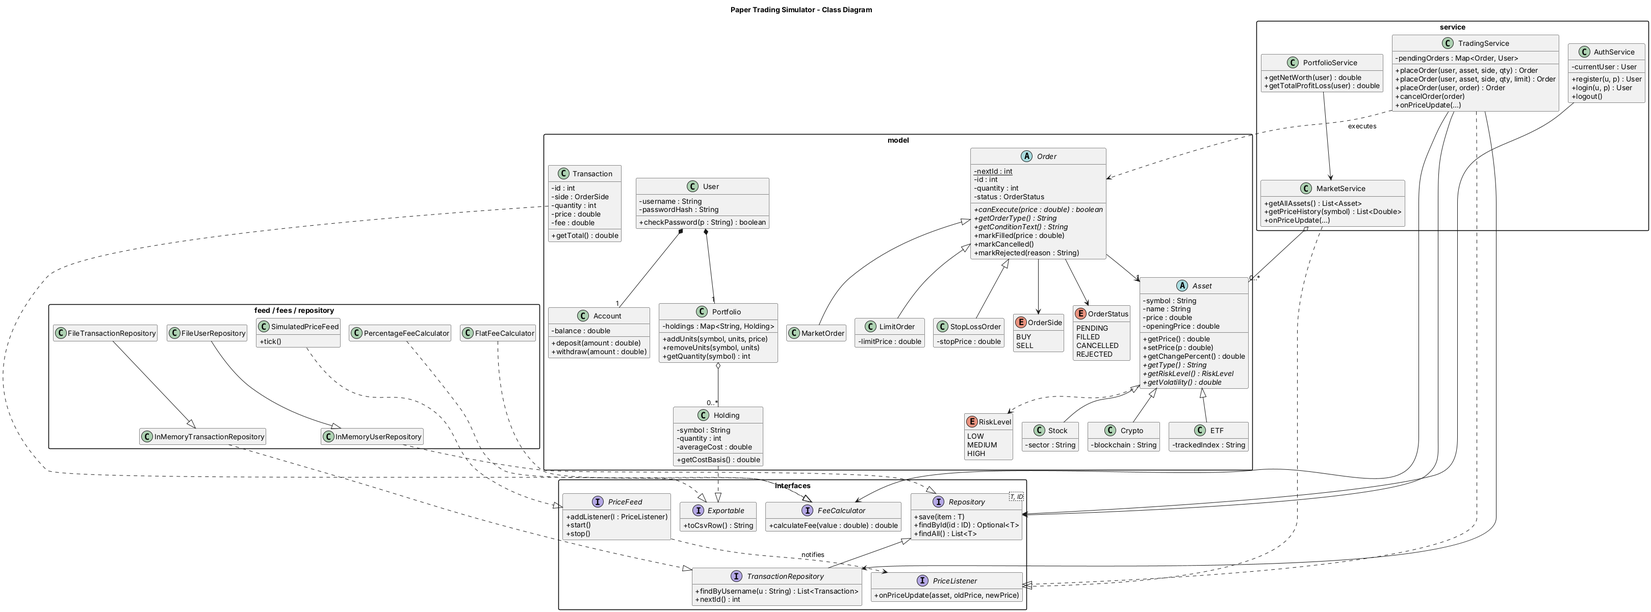
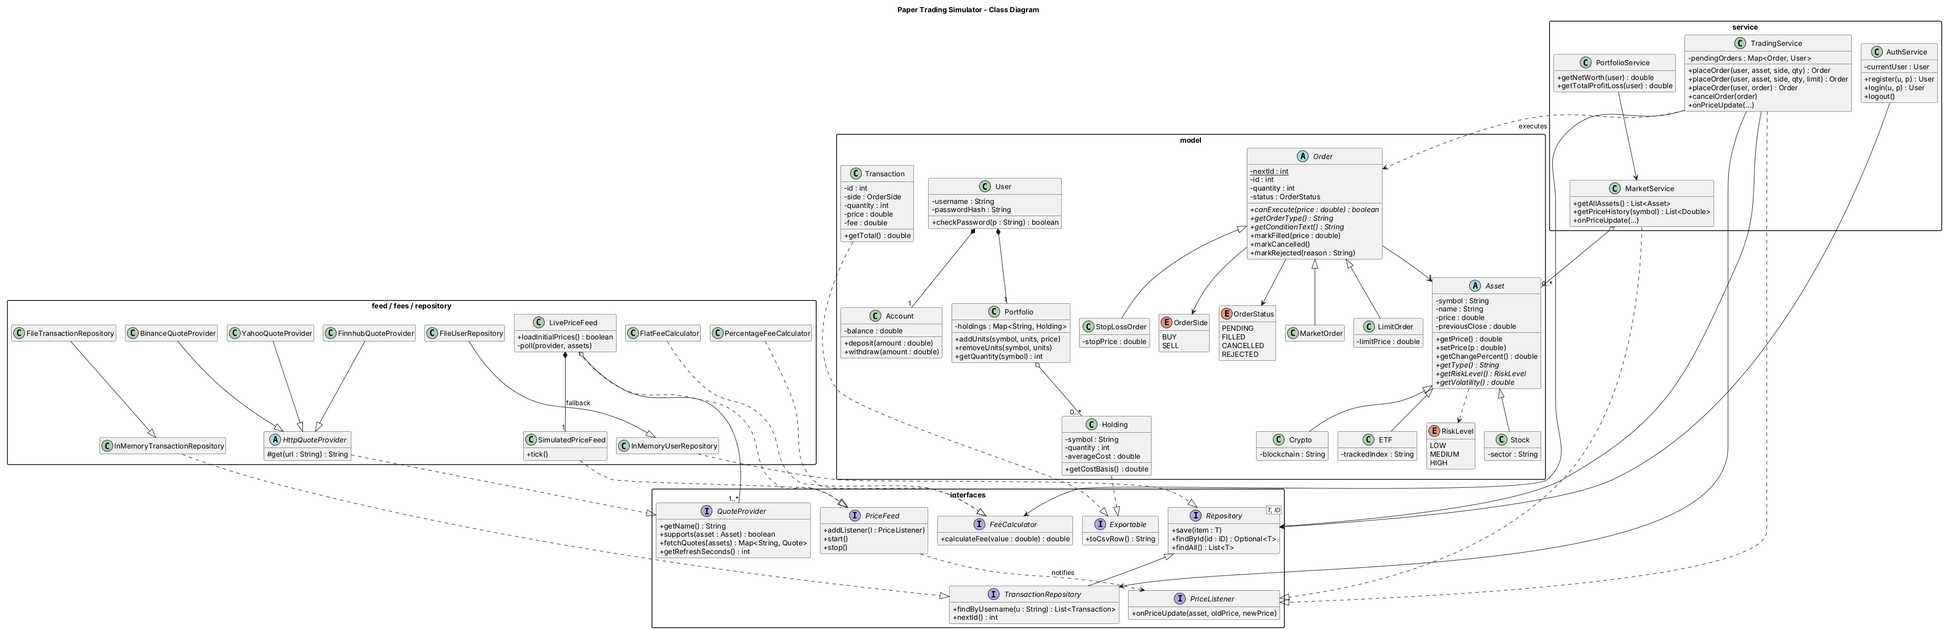
Spiral loop 5: update SRS, UML and docs for real market data
Claude-Session: https://claude.ai/code/session_0141eN5QTXP4mG7J4HCk5yAW

diff --git a/docs/SRS.md b/docs/SRS.md
@@ -18,9 +18,11 @@ project team, the evaluator and anyone who maintains the code later.
 
 ### 1.2 Scope
 PaperTrader 3D is a Java desktop application that lets a user practise buying and selling
-stocks, cryptocurrencies and ETFs with **virtual money**. Prices are simulated live. The user can
+stocks, cryptocurrencies and ETFs with **virtual money** at live market prices. The user can
 place Market, Limit and Stop-Loss orders, track profit and loss, and view their portfolio as a
-rotatable 3D bar chart. No real money and no real exchange are involved.
+rotatable 3D bar chart. Prices are **real market prices** (Binance for crypto, Finnhub or Yahoo
+Finance for stocks and ETFs), with a simulated mode for offline use. No real money and no real
+orders are involved.
 
 ### 1.3 Definitions
 | Term | Meaning |
@@ -50,12 +52,13 @@ the requirements to the UML diagrams.
 ## 2. Overall Description
 
 ### 2.1 Product perspective
-A stand-alone desktop application. It needs no internet or server. Data is stored in CSV files in
-a `data/` folder next to the app.
+A stand-alone desktop application. It reads live prices from public market data APIs over the
+internet; without internet it switches to simulated prices. Data is stored in CSV files in a
+`data/` folder next to the app.
 
 ### 2.2 Product functions (summary)
 1. Register, log in, log out
-2. View live simulated market prices and a price chart per asset
+2. View live real market prices (simulated when offline) and a price chart per asset
 3. Place Market, Limit and Stop-Loss orders (buy and sell)
 4. Preview the fee and total before trading
 5. Automatically execute waiting orders when their price condition is met
@@ -69,7 +72,7 @@ a `data/` folder next to the app.
 |---|---|
 | Guest | Not logged in. Can register or log in. |
 | Trader | Logged-in user. Can use every trading feature. |
-| Market Simulator (system actor) | The timer that updates prices every second. |
+| Market Data Feed (system actor) | The live APIs (or the offline simulator) that update prices. |
 
 ### 2.4 Operating environment
 - Java 17 or newer, Windows / macOS / Linux
@@ -81,7 +84,8 @@ a `data/` folder next to the app.
 - Code must be simple enough to explain in a viva.
 
 ### 2.6 Assumptions and dependencies
-- Prices are simulated with a random walk; they are not real market prices.
+- Live prices come from third-party APIs; their accuracy and availability are outside our control. US stocks only move during US market hours (about 8:00 PM to 2:30 AM IST); crypto moves 24/7.
+- Prices are shown in US dollars (crypto in USDT, a dollar-pegged coin).
 - Quantities are whole units.
 - Only one user is logged in at a time on one computer.
 
@@ -95,12 +99,13 @@ relationships, functional model) and **Architecture Modelling**.
 ### 3.1 Context analysis
 **Domain:** retail securities trading for learners.
 **Domain scope:** account management, market data, order management, portfolio accounting,
-visualisation. Out of scope: real brokers, real payments, margin, short selling, options.
+visualisation. Out of scope: real brokers, real orders, real payments, margin, short selling, options.
 
 Context diagram (data flows):
 ```
-             register / login / orders            prices every second
-  [Trader] ----------------------------> [ PaperTrader 3D ] <-------------- [Price Simulator]
+             register / login / orders               live quotes (HTTPS/JSON)
+  [Trader] ----------------------------> [ PaperTrader 3D ] <-------------- [Binance, Finnhub /
+                                                                              Yahoo Finance]
            <----------------------------           |
               dashboards, P&L, 3D charts           v
                                               [ data/*.csv ]
@@ -116,7 +121,9 @@ Feature types used (FODA notation):
 | User Management | Mandatory | Register, Login/Logout, Password hashing |
 | Market Data | Mandatory | |
 | Asset Catalog: Stock / Crypto / ETF | Mandatory, **or-group** | At least one; all three implemented |
-| Price Source | Mandatory, **alternative** (exactly one) | Simulated feed (selected) or Live API (future) |
+| Price Source | Mandatory, **alternative** (exactly one) | Live APIs (default) or Simulated feed (offline) |
+| Stock/ETF quote provider | Mandatory under Live, **alternative** | Finnhub (with free key) or Yahoo Finance (no key) |
+| Crypto quote provider | Mandatory under Live | Binance |
 | Price history chart | Optional | |
 | Order Type: Market / Limit / Stop-Loss | Mandatory, **or-group** | All three implemented |
 | Fee Strategy | Mandatory, **alternative** | Percentage (selected) or Flat |
@@ -132,12 +139,14 @@ Feature types used (FODA notation):
 - *3D portfolio bars* **requires** *Holdings*.
 - *CSV export* **requires** *Transaction history*.
 
-**Binding time:** Fee strategy, Price source and Persistence are bound at *start-up* in `App.java`
-(one line each). Order type and Asset are bound at *run-time* by the user.
+**Binding time:** Fee strategy, Price source and Persistence are bound at *start-up* in `App.java`.
+Price source and quote provider are chosen from `config.properties` / environment variables
+(`data.mode`, `finnhub.apiKey`), and the app falls back to Simulated automatically if no API answers. Order type and Asset are bound at *run-time* by the user.
 
 **How features map to code:** an *alternative* feature becomes an **interface** with one class per
 alternative (`FeeCalculator` → `PercentageFeeCalculator` / `FlatFeeCalculator`; `PriceFeed` →
-`SimulatedPriceFeed`; `Repository` → `File…` / `InMemory…`). An *or-group* becomes an
+`LivePriceFeed` / `SimulatedPriceFeed`; `QuoteProvider` → `BinanceQuoteProvider` /
+`FinnhubQuoteProvider` / `YahooQuoteProvider`; `Repository` → `File…` / `InMemory…`). An *or-group* becomes an
 **abstract class** with subclasses (`Order` → `MarketOrder` / `LimitOrder` / `StopLossOrder`;
 `Asset` → `Stock` / `Crypto` / `ETF`).
 
@@ -176,7 +185,12 @@ See [uml/component-diagram.png](uml/component-diagram.png).
 | FR-3 | The system shall give each new user $100,000 virtual cash. | High |
 | FR-4 | The system shall log a user in only with the correct password, and store only a SHA-256 hash of the password. | High |
 | FR-5 | The system shall offer 10 assets (5 stocks, 3 cryptos, 2 ETFs) with name, type and risk level. | High |
-| FR-6 | The system shall update every price once per second using a random walk whose size depends on the asset type (ETF < Stock < Crypto). | High |
+| FR-6 | The system shall use **real market prices** by default: crypto from Binance (refreshed every 3 s), stocks and ETFs from Finnhub when an API key is configured, otherwise Yahoo Finance (refreshed every 15 s). | High |
+| FR-6a | The system shall load real prices before the main window opens, so trading starts at market prices. | High |
+| FR-6b | The system shall show "change %" against the real previous close (24 h open for crypto). | Medium |
+| FR-6c | The system shall show each data source's status (live with last update time, or offline) in the sidebar. | Medium |
+| FR-6d | If no market data API is reachable at start-up, or `data.mode=simulated` is set, the system shall use simulated random-walk prices whose size depends on asset type (ETF < Stock < Crypto). | High |
+| FR-6e | If an API fails while running, the system shall keep the last known price and retry on the next refresh. | High |
 | FR-7 | The system shall show a live price table with change %, flashing green/red on each change. | Medium |
 | FR-8 | The system shall show a line chart of the last 90 prices of the selected asset. | Medium |
 | FR-9 | The system shall let the trader place a **Market** order that executes immediately. | High |
@@ -200,7 +214,10 @@ See [uml/component-diagram.png](uml/component-diagram.png).
 
 | ID | Category | Requirement |
 |---|---|---|
-| NFR-1 | Performance | The UI shall refresh within 1 second of a price tick and stay responsive (no freezing). |
+| NFR-1 | Performance | The UI shall refresh within 1 second of a price update and never freeze while waiting for the internet (downloads run on a background thread). |
+| NFR-1a | Accuracy | Displayed prices shall match the source exchange/API within one refresh interval (3 s crypto, 15 s stocks). |
+| NFR-1b | Rate limits | The app shall stay within free API limits (Finnhub: 60 calls/min; app uses about 28). |
+| NFR-4a | Security | API keys shall be read from an environment variable or a git-ignored `config.properties`, never from source code. |
 | NFR-2 | Usability | A new user shall be able to place a first trade within 2 minutes without help. |
 | NFR-3 | Reliability | Invalid input shall never crash the app; it shall show a clear message. |
 | NFR-4 | Security | Passwords shall never be stored in plain text. |
@@ -211,7 +228,11 @@ See [uml/component-diagram.png](uml/component-diagram.png).
 
 ### 4.3 External interface requirements
 - **User interface:** dark theme desktop window, left sidebar with Dashboard, Market, Trade, Portfolio, History, and a Log out button. Login screen with a 3D spinning coin.
-- **Software interfaces:** Java 17 SE, Swing, FlatLaf 3.4, JavaFX 21 (controls + swing), JUnit 5.
+- **Software interfaces:** Java 17 SE, Swing, FlatLaf 3.4, JavaFX 21 (controls + swing), org.json, JUnit 5.
+- **Communication interfaces (HTTPS, JSON):**
+  - Binance `GET /api/v3/ticker/24hr?symbols=[...]` → `lastPrice`, `openPrice`
+  - Finnhub `GET /api/v1/quote?symbol=..&token=..` → `c` (current), `pc` (previous close)
+  - Yahoo Finance `GET /v8/finance/chart/{symbol}` → `meta.regularMarketPrice`, `meta.chartPreviousClose`
 - **Files:** `data/users.csv`, `data/holdings.csv`, `data/transactions.csv`.
 
 ---
@@ -227,7 +248,7 @@ Diagram: [uml/use-case-diagram.png](uml/use-case-diagram.png)
 - *Post-condition:* cash, holdings and history are updated and saved (if filled).
 
 **UC-13 Execute pending orders**
-- *Actor:* Market Simulator. *Trigger:* each price tick.
+- *Actor:* Market Data Feed. *Trigger:* each price update.
 - *Flow:* for each waiting order of that asset, if `canExecute(newPrice)` then execute; if it now fails (e.g. cash spent), mark REJECTED.
 
 ---
@@ -237,7 +258,7 @@ Diagram: [uml/use-case-diagram.png](uml/use-case-diagram.png)
 | Requirement | Class(es) | Test |
 |---|---|---|
 | FR-1..4 | `AuthService`, `User`, `PasswordHasher` | `AuthServiceTest` |
-| FR-6 | `SimulatedPriceFeed`, `Asset.getVolatility()` | `ConsoleDemo` |
+| FR-6..6e | `LivePriceFeed`, `BinanceQuoteProvider`, `FinnhubQuoteProvider`, `YahooQuoteProvider`, `SimulatedPriceFeed` | `QuoteParsingTest`, `LivePriceFeedTest`, `ConsoleDemo` |
 | FR-9..11 | `MarketOrder`, `LimitOrder`, `StopLossOrder` | `OrderTest` |
 | FR-13..16 | `TradingService`, `Account` | `TradingServiceTest`, `AccountTest` |
 | FR-17 | `FeeCalculator` implementations | `FeeCalculatorTest` |

diff --git a/docs/OOP-SOLID-Mapping.md b/docs/OOP-SOLID-Mapping.md
@@ -10,7 +10,8 @@ Every concept below points to the exact file to open during the viva.
 |---|---|
 | `model/Asset.java` | Abstract class. You can't write `new Asset(...)`. It declares `getType()`, `getRiskLevel()`, `getVolatility()` without a body. |
 | `model/Order.java` | Abstract `canExecute(price)`. Each order type fills in its own rule. |
-| `interfaces/PriceFeed.java` | The UI and services only know "something that gives prices". They don't know it's random. |
+| `interfaces/PriceFeed.java` | The UI and services only know "something that gives prices". They don't know if the prices are live or simulated. |
+| `interfaces/QuoteProvider.java` | `LivePriceFeed` asks "give me quotes" without knowing which website answers. |
 | `ui/three/Base3DView.java` | Hides all the Swing↔JavaFX bridge work; subclasses only write `createScene()`. |
 
 ### Encapsulation: keep data private, change it only through methods that check it
@@ -31,6 +32,7 @@ Every concept below points to the exact file to open during the viva.
 | `InMemoryUserRepository` | `FileUserRepository` (calls `super.save()` then writes the file) |
 | `BasePanel` (extends `JPanel`) | `DashboardPanel`, `MarketPanel`, `TradePanel`, `PortfolioPanel`, `HistoryPanel` |
 | `Base3DView` | `Coin3DView`, `Portfolio3DView` |
+| `HttpQuoteProvider` (abstract) | `BinanceQuoteProvider`, `FinnhubQuoteProvider`, `YahooQuoteProvider` (all reuse the download method `get(url)`) |
 | `DefaultTableCellRenderer` | `MoneyRenderer`, `ColoredNumberRenderer` |
 
 ### Polymorphism: one name, many forms
@@ -46,6 +48,8 @@ Every concept below points to the exact file to open during the viva.
 **Runtime (dynamic) polymorphism = method OVERRIDING + parent reference.** Java decides at run time which version runs.
 - `TradingService.placeOrder()` and `onPriceUpdate()` call `order.canExecute(price)` on an `Order` reference. The object may be a `MarketOrder`, `LimitOrder` or `StopLossOrder`.
 - `SimulatedPriceFeed.tick()` calls `asset.getVolatility()`, so Crypto moves more than ETF.
+- `LivePriceFeed` calls `provider.fetchQuotes(...)` on a `QuoteProvider` reference; Binance, Finnhub or Yahoo code runs.
+- `App` holds a `PriceFeed` reference that is a `LivePriceFeed` or a `SimulatedPriceFeed`; the rest of the app can't tell.
 - `MainFrame.refreshCurrentPage()` calls `currentPage.refresh()` on a `BasePanel` reference.
 - `LineChartPanel.paintComponent()` overrides Swing's method; Swing calls our version.
 - Test that proves it: `OrderTest.sameCallDifferentBehaviour()`.
@@ -53,7 +57,8 @@ Every concept below points to the exact file to open during the viva.
 ## 2. Interfaces
 | Interface | Implemented by | Why |
 |---|---|---|
-| `PriceFeed` | `SimulatedPriceFeed` | swap in a real API later |
+| `PriceFeed` | `LivePriceFeed`, `SimulatedPriceFeed` | live or offline prices, same code everywhere else |
+| `QuoteProvider` | `BinanceQuoteProvider`, `FinnhubQuoteProvider`, `YahooQuoteProvider` (via `HttpQuoteProvider`) | one class per data website |
 | `PriceListener` | `MarketService`, `TradingService` | Observer pattern |
 | `FeeCalculator` | `PercentageFeeCalculator`, `FlatFeeCalculator` | Strategy pattern |
 | `Repository<T, ID>` (generic) | `InMemoryUserRepository`, `FileUserRepository` | storage independence |
@@ -65,10 +70,10 @@ Every concept below points to the exact file to open during the viva.
 | Principle | Where it shows |
 |---|---|
 | **S** Single Responsibility | `AuthService` = login only; `TradingService` = orders only; `PortfolioService` = calculations only; `MarketService` = assets & history only; `Portfolio` stores units but does no money maths. |
-| **O** Open/Closed | Add `TrailingStopOrder extends Order` or `class Bond extends Asset` without editing `TradingService`. Change fee rule with one line in `App.java`. |
+| **O** Open/Closed | Real market data was added as **new classes only** (`LivePriceFeed`, providers); `MarketService`, `TradingService` and the pages didn't change. Add `TrailingStopOrder extends Order` or `class Bond extends Asset` without editing `TradingService`. Change fee rule with one line in `App.java`. |
 | **L** Liskov Substitution | `InMemoryUserRepository` and `FileUserRepository` are interchangeable (tests use one, the app uses the other). Any `Order` subclass works wherever `Order` is expected. |
 | **I** Interface Segregation | Small interfaces: `PriceListener` has 1 method, `Exportable` has 1, `FeeCalculator` has 2. `TransactionRepository` adds extra methods only where needed instead of bloating `Repository`. |
-| **D** Dependency Inversion | `TradingService` and `AuthService` depend on interfaces, received through the constructor. Concrete classes are created only in `App.java` (the composition root). |
+| **D** Dependency Inversion | `LivePriceFeed` depends on `QuoteProvider`, so `LivePriceFeedTest` uses a fake provider without internet. `TradingService` and `AuthService` depend on interfaces, received through the constructor. Concrete classes are created only in `App.java` (the composition root). |
 
 ## 4. Cohesion and coupling
 - **High cohesion:** each package has one theme (`model`, `service`, `repository`, `fees`, `feed`, `ui`, `ui/three`, `ui/components`), and each class does one job.
@@ -86,12 +91,16 @@ Every concept below points to the exact file to open during the viva.
 | Strategy | `FeeCalculator` |
 | Repository | `Repository<T, ID>` |
 | Template Method | `Base3DView.start3D()` + abstract `createScene()` |
+| Composition / fallback | `LivePriceFeed` HAS-A `SimulatedPriceFeed` for assets no API covers |
 | Composition root / Dependency Injection | `App.start()` |
 
 ## 6. Likely viva questions
 - **Abstract class vs interface?** `Asset` and `Order` share fields and code, so they're abstract classes. `FeeCalculator` and `PriceFeed` only describe behaviour, so they're interfaces. A class can implement many interfaces but extend only one class.
 - **Why is `placeOrder` overloaded and not overridden?** Overloading = same class, different parameters (compile time). Overriding = subclass replaces a parent method (run time), like `canExecute`.
 - **How does a limit order execute later?** `TradingService` is a `PriceListener`. Every tick, `onPriceUpdate()` checks waiting orders with `canExecute(newPrice)`.
-- **Why a Swing Timer for prices?** It runs on the UI thread, so the UI and engine never run at the same time. No locks needed.
+- **Why a Swing Timer for simulated prices?** It runs on the UI thread, so the UI and engine never run at the same time. No locks needed.
+- **Live prices come from the internet. Doesn't that freeze the UI?** No. `LivePriceFeed` downloads on a background thread (`ScheduledExecutorService`), then hands results to the UI thread with `SwingUtilities.invokeLater`. So listeners still run on the UI thread, like with the simulator.
+- **Which API and why?** Crypto: Binance, the exchange itself, so it's the actual traded price. Stocks/ETFs: Finnhub, an official real-time US exchange feed (free key), or Yahoo Finance when there's no key. Each website is one `QuoteProvider` class.
+- **What if the internet drops?** The last price is kept, the sidebar shows "offline", and it retries on the next refresh. With no internet at start-up, the app uses the simulator.
 - **How does 3D work in a Swing app?** `JFXPanel` is a Swing component that hosts a JavaFX scene. JavaFX 3D shapes (`Box`, `Cylinder`), `PhongMaterial`, `PointLight` and `PerspectiveCamera` draw the 3D view.
 - **How is data saved?** CSV files in `data/`. `FileUserRepository` extends the in-memory repository and writes files after each save.

diff --git a/README.md b/README.md
@@ -1,7 +1,8 @@
 # PaperTrader 3D: Finance Paper Trading Simulator
 
 A Java desktop app for practising trading **stocks, crypto and ETFs** with virtual money.
-It has live simulated prices, Market / Limit / Stop-Loss orders, portfolio P&L, and **3D visuals**
+It uses **real live market prices** (Binance for crypto, Finnhub / Yahoo Finance for stocks and ETFs),
+with Market / Limit / Stop-Loss orders, portfolio P&L, and **3D visuals**
 (a JavaFX 3D portfolio chart you can rotate and a spinning 3D coin on the login screen).
 
 Built as an OOP / Software Engineering project: four OOP pillars, interfaces, SOLID, high cohesion
@@ -19,12 +20,30 @@ Requirements: **Java 17+** and **Maven** (IntelliJ IDEA / Eclipse / VS Code can 
 
 ```bash
 mvn compile exec:java          # start the app
-mvn test                       # run the 26 unit tests
+mvn test                       # run the 32 unit tests
 mvn package                    # build target/paper-trading-simulator-1.0.0.jar
 java -jar target/paper-trading-simulator-1.0.0.jar
 ```
 
 Log in with **demo / demo** (created on first run with some sample holdings), or create your own account.
+
+## Real market data
+
+| Assets | Source | Key needed? | Refresh |
+|---|---|---|---|
+| Crypto (BTC, ETH, SOL) | **Binance**: the exchange's own last traded price (USDT ≈ USD) | No | every 3 s |
+| Stocks & ETFs (AAPL, MSFT, GOOGL, TSLA, AMZN, SPY, QQQ) | **Finnhub**: official real-time US exchange quotes | Free key | every 15 s |
+| Stocks & ETFs (when no Finnhub key) | **Yahoo Finance** | No | every 15 s |
+
+It works without any setup (Binance + Yahoo). For the most accurate stock prices, add a free Finnhub key:
+
+1. Get a key at <https://finnhub.io/register>.
+2. Copy `config.example.properties` to `config.properties` and set `finnhub.apiKey=YOUR_KEY`
+   (or set the environment variable `FINNHUB_API_KEY`). `config.properties` is git-ignored.
+
+The sidebar shows each source's status, e.g. `Binance: live 16:30:05`. "Change %" is measured from the previous close
+(24 h ago for crypto). US stocks only move during US market hours (about 8:00 PM–2:30 AM IST), and crypto moves 24/7.
+With no internet, the app uses simulated prices automatically. You can also force that with `data.mode=simulated`.
 
 The console-only prototype (no UI) shows the engine works on its own:
 ```bash
@@ -41,6 +60,7 @@ mvn compile exec:java -Dexec.mainClass=com.papertrader.ConsoleDemo
 | Java Swing (built-in) | All screens, tables, forms |
 | FlatLaf 3.4 | Modern dark look-and-feel for Swing |
 | JavaFX 21 (`javafx-controls`, `javafx-swing`) | 3D views, embedded in Swing with `JFXPanel` |
+| org.json | Reading the JSON answers from the market data APIs |
 | JUnit 5 | Unit tests |
 
 ## Project structure
@@ -51,18 +71,19 @@ src/main/java/com/papertrader/
 ├── model/                   Asset ← Stock, Crypto, ETF
 │                            Order ← MarketOrder, LimitOrder, StopLossOrder
 │                            User, Account, Portfolio, Holding, Transaction, enums
-├── interfaces/              PriceFeed, PriceListener, FeeCalculator,
+├── interfaces/              PriceFeed, PriceListener, QuoteProvider, FeeCalculator,
 │                            Repository<T,ID>, TransactionRepository, Exportable
-├── feed/                    SimulatedPriceFeed (random-walk prices every second)
+├── feed/                    LivePriceFeed (real prices) + Binance/Finnhub/Yahoo QuoteProviders,
+│                            SimulatedPriceFeed (offline random-walk prices)
 ├── fees/                    PercentageFeeCalculator, FlatFeeCalculator
 ├── repository/              InMemory… and File… repositories (CSV in data/)
 ├── service/                 AuthService, MarketService, TradingService, PortfolioService
 ├── exception/               SimulatorException ← InsufficientFunds, InvalidOrder, Auth
-├── util/                    Formatter, PasswordHasher, CsvExporter
+├── util/                    Formatter, PasswordHasher, CsvExporter, AppConfig
 └── ui/                      MainFrame, LoginPanel, BasePanel ← Dashboard/Market/Trade/
     ├── components/          Portfolio/History panels; StatCard, LineChartPanel, TickerPanel, renderers
     └── three/               Base3DView ← Coin3DView, Portfolio3DView (JavaFX 3D)
-src/test/java/com/papertrader/   26 JUnit tests
+src/test/java/com/papertrader/   32 JUnit tests
 docs/
 ├── SRS.md                   Software Requirements Specification (FODA)
 ├── SpiralModel.md           SDLC: 4 spiral loops

diff --git a/docs/SpiralModel.md b/docs/SpiralModel.md
@@ -1,7 +1,7 @@
 # SDLC: Spiral Model
 
 We built PaperTrader 3D with the **Spiral model** (Boehm, 1988). The project went around the
-spiral four times. Each loop has the same four quadrants:
+spiral five times. Each loop has the same four quadrants:
 
 1. **Determine objectives** (planning): what this loop must deliver
 2. **Identify and resolve risks** (risk analysis): what could go wrong, and a prototype or test to reduce it
@@ -14,12 +14,13 @@ calculations) could be tried early in small prototypes before the full app was b
 ```
                      Planning  |  Risk analysis
                                |
-          Loop 4 ----------------------------------.
-          Loop 3 ---------------------------.      |
-          Loop 2 --------------------.      |      |
-          Loop 1 -------------.      |      |      |
-                              *      |      |      |
-                     ---------+------+------+------+---->  cost / time
+          Loop 5 -----------------------------------------.
+          Loop 4 ----------------------------------.      |
+          Loop 3 ---------------------------.      |      |
+          Loop 2 --------------------.      |      |      |
+          Loop 1 -------------.      |      |      |      |
+                              *      |      |      |      |
+                     ---------+------+------+------+------+-->  cost / time
                               |
                     Evaluation | Engineering
 ```
@@ -64,4 +65,14 @@ calculations) could be tried early in small prototypes before the full app was b
 | Risks | *3D not working on some laptops' graphics drivers.* *JavaFX and Swing threads mixing.* |
 | Risk resolution | `Base3DView` checks `ConditionalFeature.SCENE3D` and shows a message instead of crashing. All JavaFX work goes through `Platform.runLater`. |
 | Develop | `ui/three` package, `FileUserRepository`, `FileTransactionRepository`, 4 UML diagrams, this document. |
-| Evaluate | Final demo; screenshots in [screenshots/](screenshots/). Future loop ideas: real price API (new `PriceFeed`), database storage (new `Repository`), trailing-stop order (new `Order` subclass). None of these needs changes to existing services. |
+| Evaluate | Demo; screenshots in [screenshots/](screenshots/). Customer feedback: "use real market data". That became loop 5. |
+
+## Loop 5: Real market data
+
+| Quadrant | Work done |
+|---|---|
+| Objectives | Replace simulated prices with the most accurate free real-time sources. |
+| Risks | *Inaccurate or delayed data.* *API keys leaking into Git.* *Rate limits (HTTP 429).* *Slow or no internet freezing the UI.* *An API changing or going down.* |
+| Risk resolution | Compared sources and picked **Binance** for crypto (exchange's own prices, no key) and **Finnhub** for stocks/ETFs (official real-time US quotes, free key), with **Yahoo Finance** as a no-key option. Key read from env var or git-ignored `config.properties`. Refresh rates kept under free limits (3 s / 15 s). Downloads run on a background thread and results go back to the UI thread. If an API fails, the last price is kept; if none answer at start-up, the app uses the simulator. JSON parsing is unit-tested with sample answers and the feed is tested with a fake provider. |
+| Develop | `QuoteProvider` interface, `HttpQuoteProvider` + 3 providers, `LivePriceFeed`, `AppConfig`, sidebar data-status label. **No changes were needed in `MarketService`, `TradingService` or the pages**, because they only depend on the `PriceFeed` interface (Open/Closed principle proven in practice). |
+| Evaluate | 32 tests green. Future loop ideas: database storage (new `Repository`), trailing-stop order (new `Order` subclass), Indian NSE stocks (new `QuoteProvider`). |
